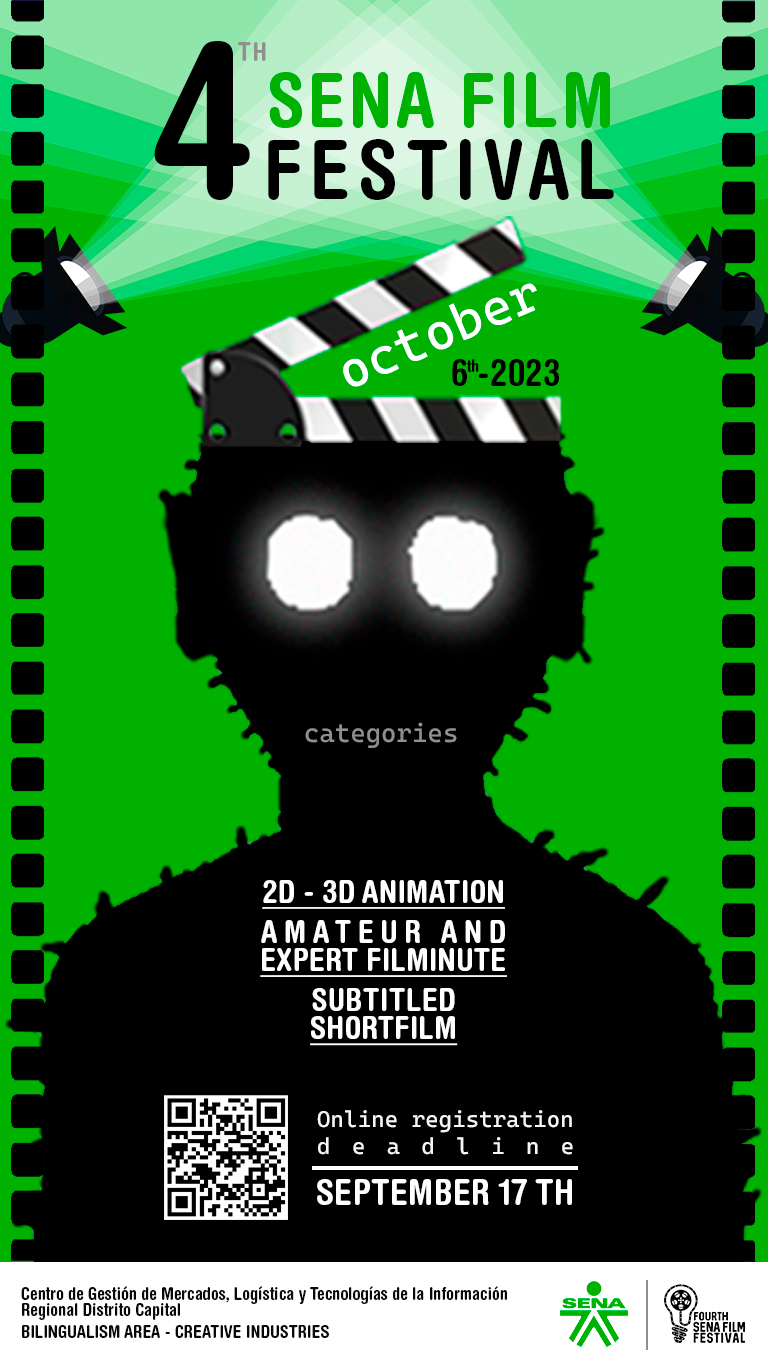
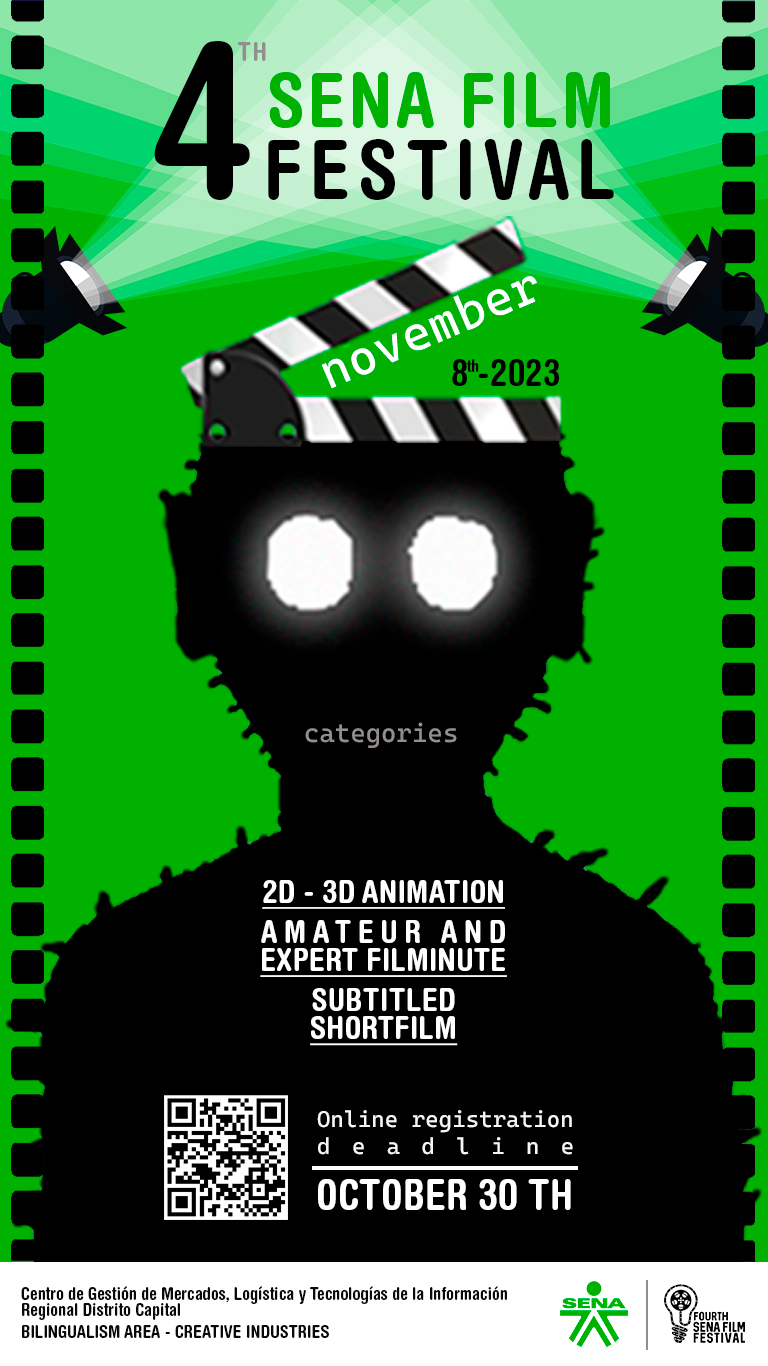
cambio gif y poster vertical por fechas

Changed region(s): [[0.4062, 0.1845, 0.7188, 0.2767], [0.4062, 0.8609, 0.75, 0.8917]]

diff --git a/templates/index.html b/templates/index.html
@@ -37,9 +37,10 @@
                     </span>
                 </div>
                 <div class="col-md-4 mx-auto p-5 inscback c">
-                    <p class="m-3 just">Te retamos a inscribirte en esta 4ta edición del SENA Film Festival, preséntale al mundo tu talento y creatividad… </p>
+                    <p class="m-3 just">Te retamos a inscribirte en esta 4ta edición del SENA Film Festival, 
+                        preséntale al mundo tu talento y creatividad… </p>
                     <p class="m-3 just">Muestra de lo que estás hecho…</p>
-                    <p class="m-3 just">Inscríbete antes de las 23:59 horas del 17 de septiembre del 2023. </p>
+                    <p class="m-3 just">Inscríbete antes de las 23:59 horas del 30 de Octubre del 2023. </p>
                 </div>
                 <div class="col-md-4 mx-auto c">
                     <span id="surround">
@@ -60,8 +61,13 @@
             <div class="row ">
                 <div class="col-lg-6 col-sm-12 mx-auto p-3 font just c ">
                     <h2 class="mb-4">SENA Film Festival</h2>
-                    <p>El SENA Film Festival es una iniciativa de la Coordinación de Bilingüismo e Industrias Creativas del Centro de Gestión de Mercados, Logística y Tecnologías de la Información, el cual se lleva a cabo en el marco de la Semana de los Idiomas. El festival tiene como principal objetivo promover y motivar el uso de una lengua extranjera en productos audiovisuales que evidencien la creatividad y talento de los aprendices SENA.</p>
-                    <p>En esta cuarta versión del festival, los aprendices en etapas lectiva o productiva pueden inscribir sus productos en las categorías: Animación 2D y 3D, Filminuto Aficionado o Experto y Corto Subtitulado.</p>
+                    <p>El SENA Film Festival es una iniciativa de la Coordinación de Bilingüismo e Industrias 
+                        Creativas del Centro de Gestión de Mercados, Logística y Tecnologías de la Información, 
+                        el cual se lleva a cabo en el marco de la Semana de los Idiomas. El festival tiene como 
+                        principal objetivo promover y motivar el uso de una lengua extranjera en productos audiovisuales 
+                        que evidencien la creatividad y talento de los aprendices SENA.</p>
+                    <p>En esta cuarta versión del festival, los aprendices en etapas lectiva o productiva pueden inscribir 
+                        sus productos en las categorías: Animación 2D y 3D, Filminuto Aficionado o Experto y Corto Subtitulado.</p>
                 </div>
                 <div class="col-lg-6 col-sm-12 mx-auto p-3 font1 c ">
                     <video class="mt-5" width="100%" height="auto" controls>
@@ -71,8 +77,11 @@
             </div>
 
         <div class="col-lg-12 col-sm-11 mx-auto pb-5 font c just">
-            <p>The SENA Film Festival is a CGMLTI’s English and Creative Industries department initiative and it takes place as a part of the Languages week. The festival main aim is promoting and encourage a second language use in media products that show SENA students creativity and talent. </p>
-            <p>In this festival’s 4th versión current or intership students may register their products in the following categories: 2D and 3D animation, Filminute amateur or expert and subtitled short film. </p>
+            <p>The SENA Film Festival is a CGMLTI’s English and Creative Industries department initiative and it takes 
+                place as a part of the Languages week. The festival main aim is promoting and encourage a second language 
+                use in media products that show SENA students creativity and talent. </p>
+            <p>In this festival’s 4th versión current or intership students may register their products in the following 
+                categories: 2D and 3D animation, Filminute amateur or expert and subtitled short film. </p>
         </div>
     </div>
 
@@ -102,7 +111,8 @@
         <div class="row ">
             <div class="col-md-6 mx-auto mb-5 px-4 p-3 ">
                 <h2 class="mt-5 c">PÚBLICO OBJETIVO DEL EVENTO</h2>
-                <p>Para las categorías de Animación 2D y 3D, Filminuto Experto y Corto Subtitulado, pueden participar aprendices SENA en etapa lectiva y productiva de los siguientes programas de formación:</p>
+                <p>Para las categorías de Animación 2D y 3D, Filminuto Experto y Corto Subtitulado, 
+                    pueden participar aprendices SENA en etapa lectiva y productiva de los siguientes programas de formación:</p>
                 <ul>
                     <li>Producción de Medios Audiovisuales</li>
                     <li>Animación 3D</li>
@@ -110,7 +120,8 @@
                     <li>Producción Multimedia</li>
                     <li>Cámara y Fotografía</li>
                 </ul>
-                <p>(Para la categoría Filminuto Aficionado, pueden participar aprendices de cualquier Programa de Formación SENA a nivel nacional).</p>
+                <p>(Para la categoría Filminuto Aficionado, pueden participar aprendices de cualquier Programa de Formación SENA a 
+                    nivel nacional).</p>
             </div>
             <div class="col-md-6 mx-auto mb-5 pt-4 c ">
                 <img src="static/img/img/4TH_SFF_Tv_(Categorias).png" class="imginsc3 mt-5 pt-3" alt="Img">
